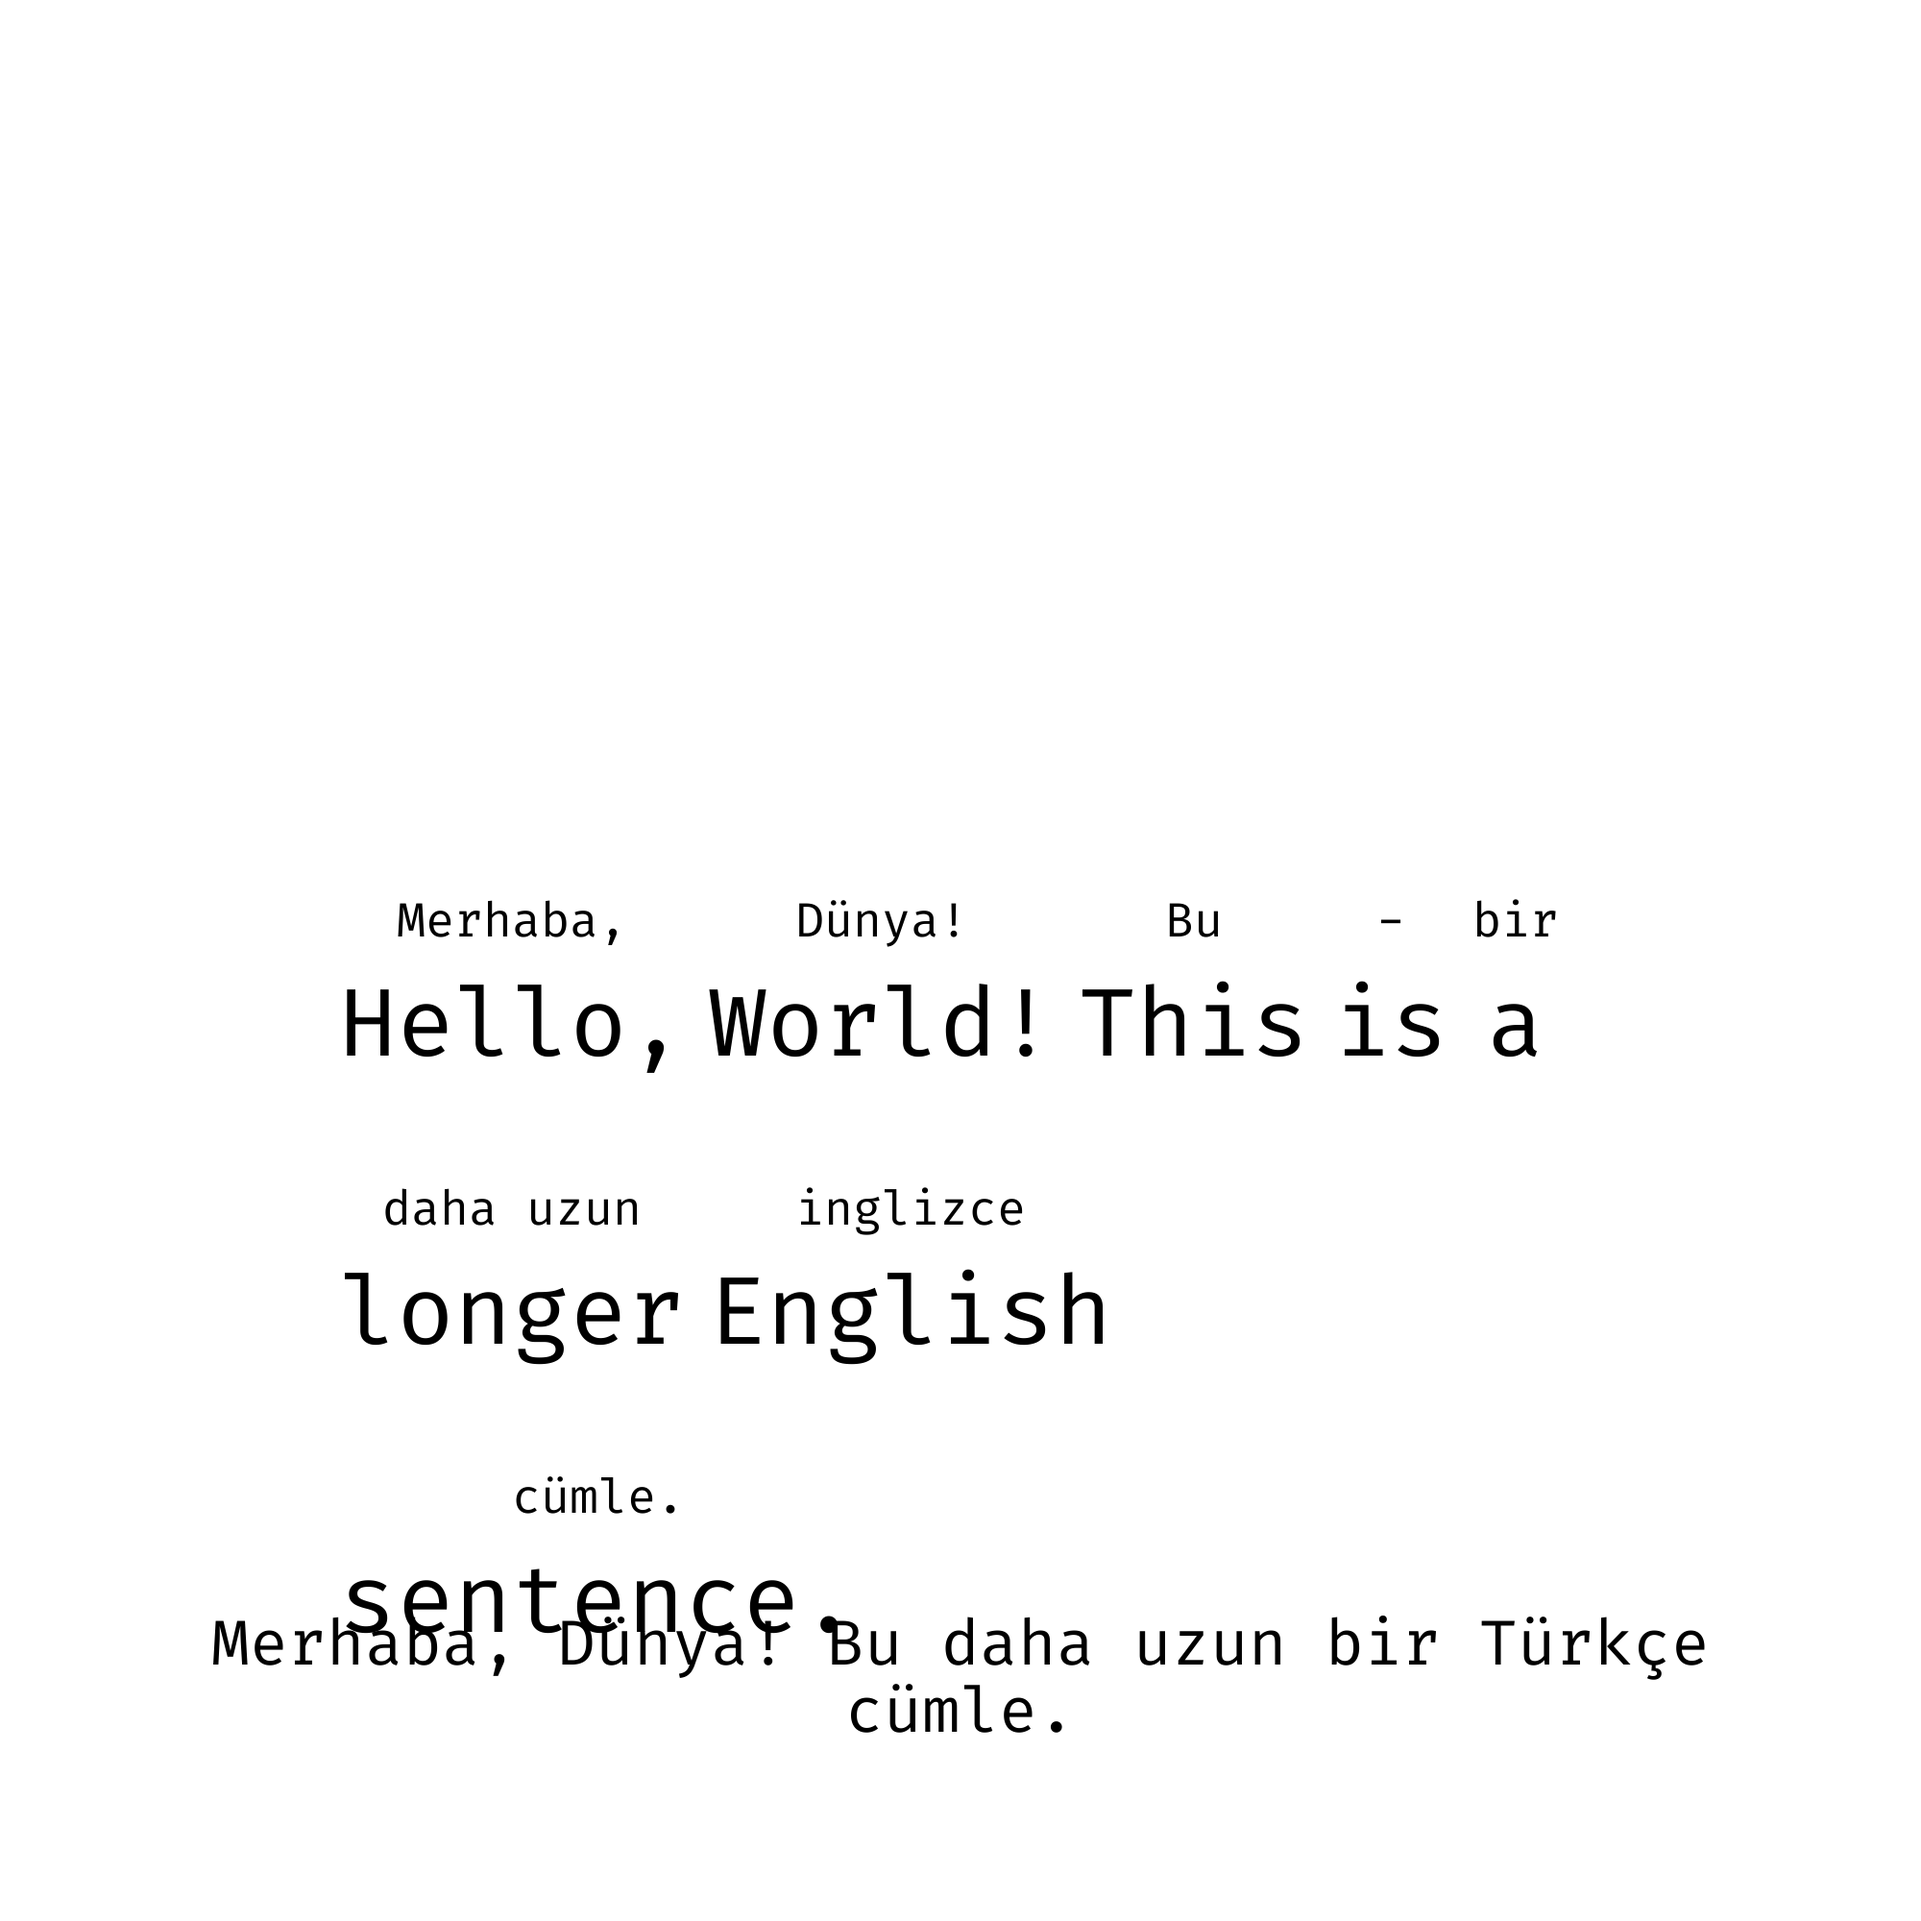
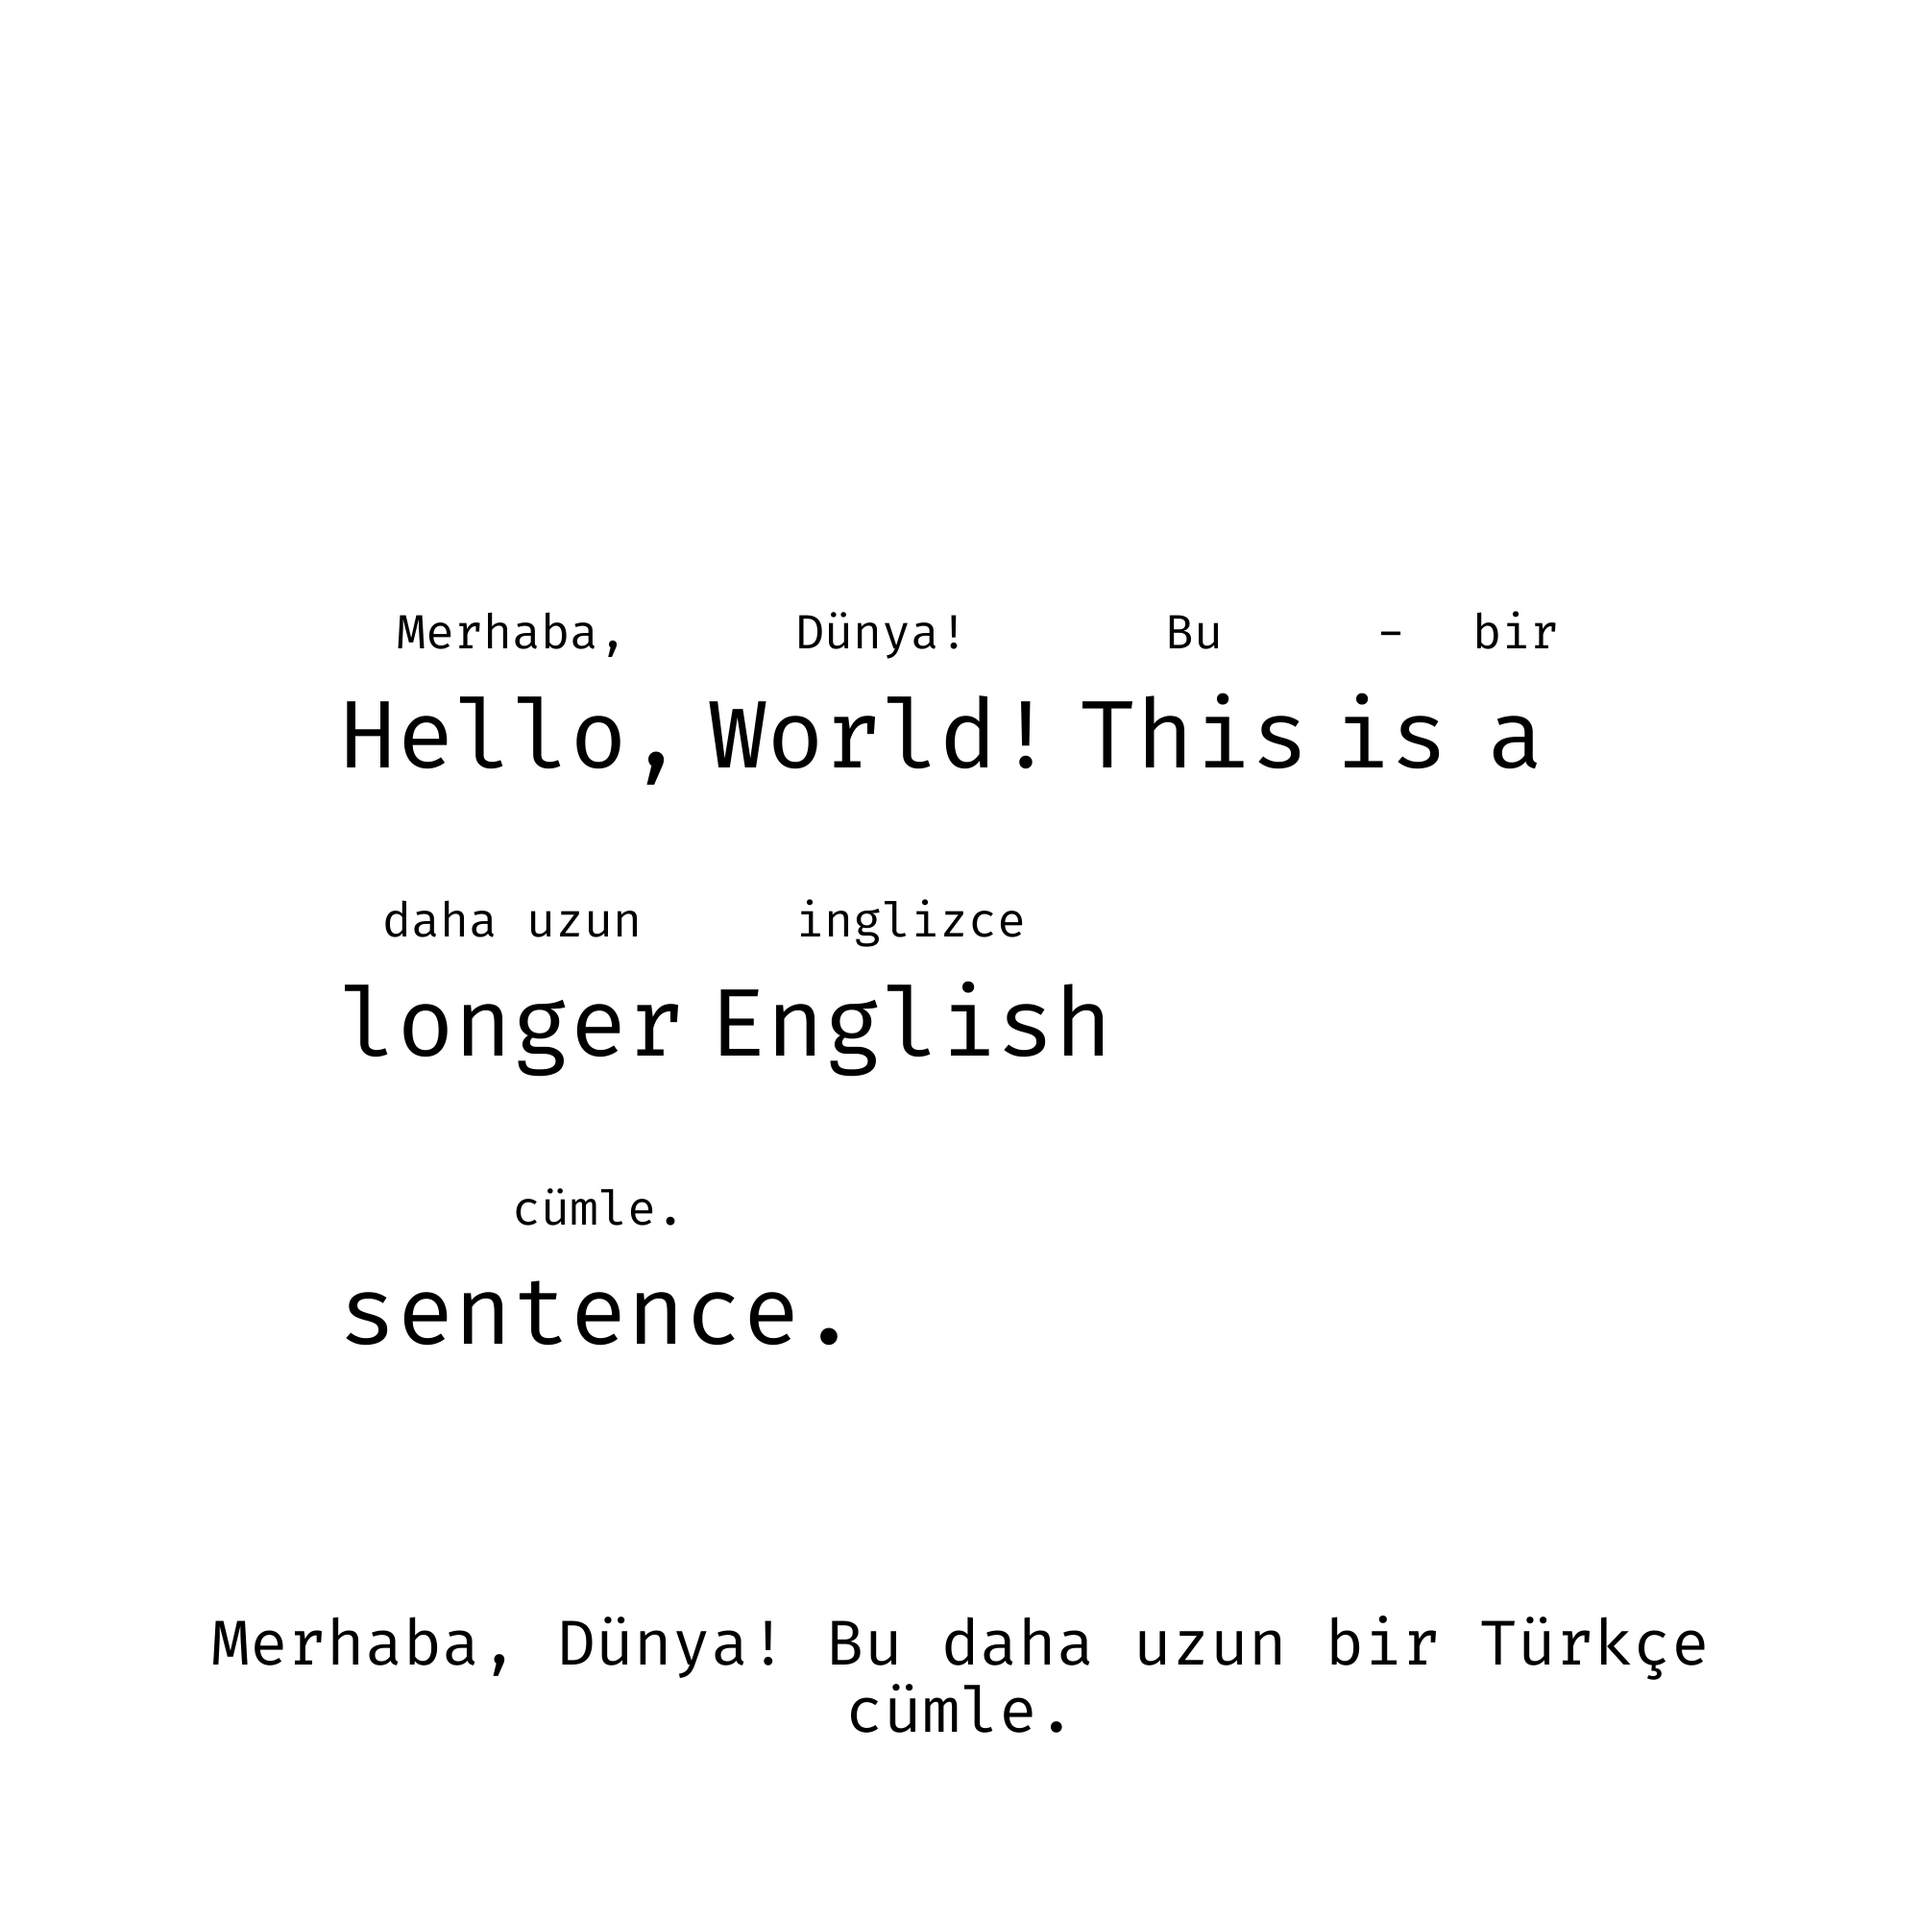
Added README.md file and updated output image_with_text.png

diff --git a/README.md b/README.md
@@ -1,0 +1,58 @@
+
+# Text-On-Image
+
+![Sample Output](./image_with_text.png)
+
+This repository contains a Python script that generates an image with English and Turkish text using Python's PIL library. It calculates the dimensions and positions for each word, draws the text on the image, and saves it as a PNG file.
+
+The main purpose of this project is for language learning by displaying the main sentence then above each word its corresponding translation, and the full translation.
+
+## Getting Started
+
+These instructions will get you a copy of the project up and running on your local machine for development and testing purposes.
+
+### Prerequisites
+
+What things you need to install the software and how to install them:
+
+- Python 3.x
+- PIL library
+
+### Installing
+
+A step by step series of examples that tell you how to get a development environment running:
+
+1. Clone the repository to your local machine:
+   ```
+   git clone https://github.com/Albaraazain/Text-On-Image.git
+   ```
+2. Navigate to the project directory:
+   ```
+   cd Text-On-Image
+   ```
+3. Install the required libraries:
+   ```
+   pip install pillow
+   ```
+4. Run the script:
+   ```
+   python main.py
+   ```
+
+## Usage
+
+Explain how to use the script, what input it needs and what output it generates.
+
+## Contributing
+
+Please read [CONTRIBUTING.md](https://github.com/Albaraazain/Text-On-Image/CONTRIBUTING.md) for details on our code of conduct, and the process for submitting pull requests to us.
+
+## License
+
+This project is licensed under the MIT License - see the [LICENSE.md](https://github.com/Albaraazain/Text-On-Image/LICENSE.md) file for details
+
+## Acknowledgments
+
+- Hat tip to anyone whose code was used
+- Inspiration
+- etc
